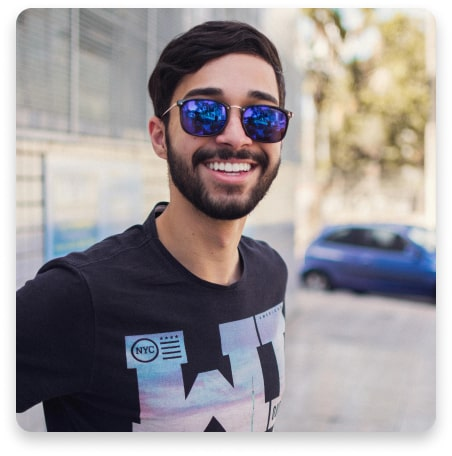
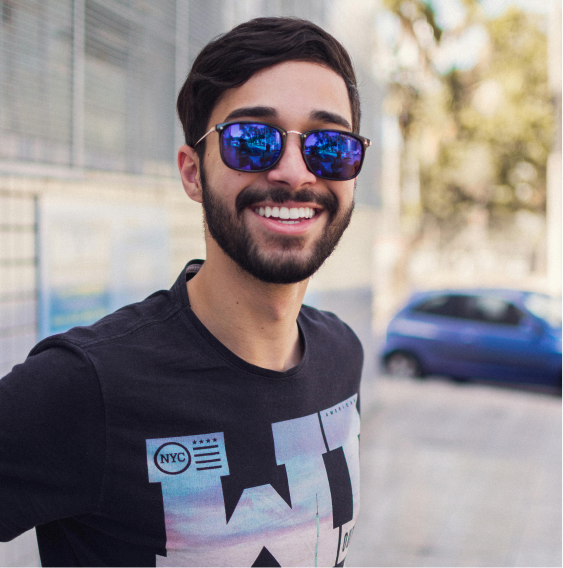
Fixed profile picture

diff --git a/src/views/AccountView.vue b/src/views/AccountView.vue
@@ -156,7 +156,7 @@ export default {
     &>img {
       height: 100%;
       width: 100%;
-      border-radius: 10px;
+      border-radius: 5px;
     }
   }
   &>.bio-title {
